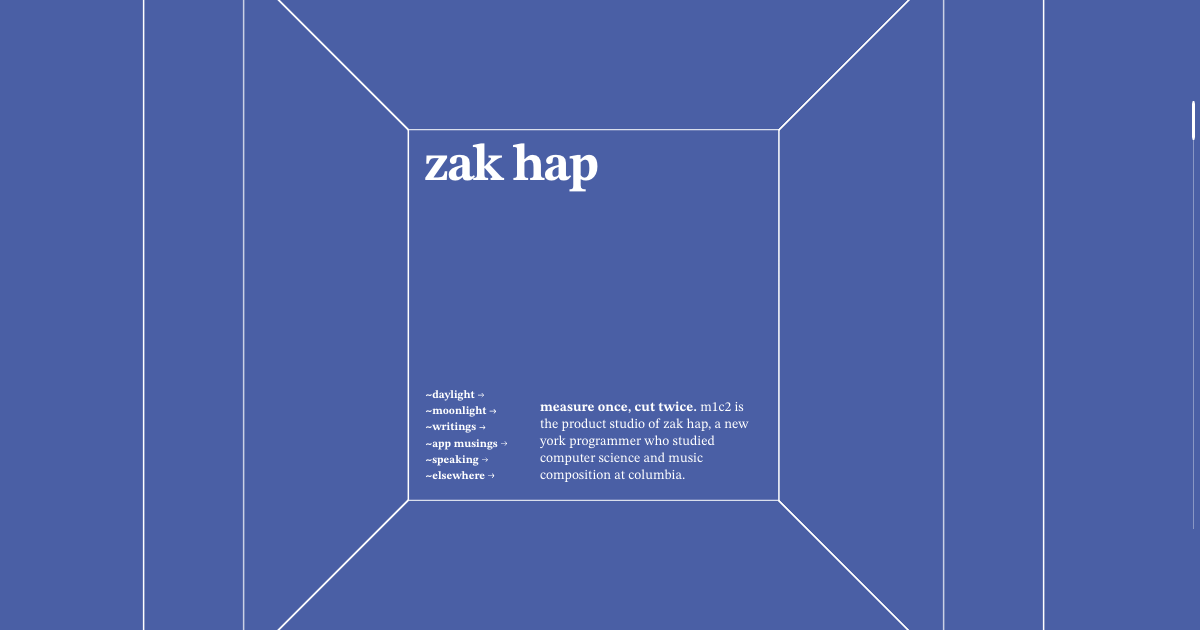
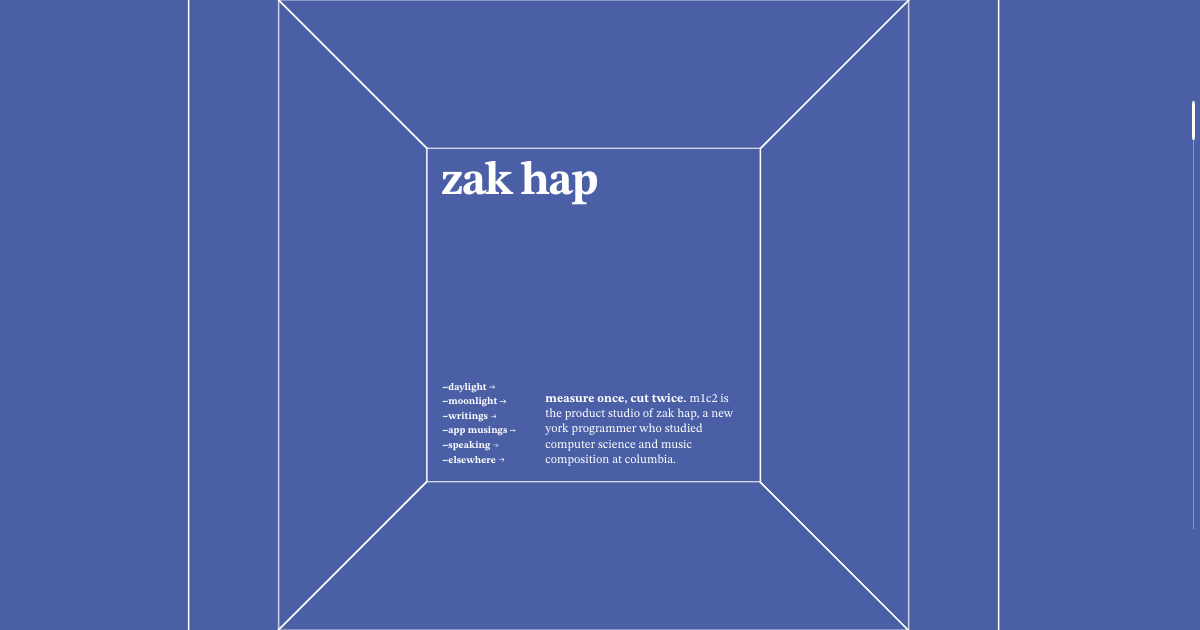
Zoom fix

Changed region(s): [[0.3392, 0.181, 0.6475, 0.8143], [0.2158, 0.9952, 0.7708, 1.0]]

diff --git a/css/engine.css b/css/engine.css
@@ -88,7 +88,7 @@
   --wdist: 2;      /* 4D eye distance along w */
   --cam: 1.6;      /* 3D eye, outside the tesseract (2.2 = whole outer cube in view, 0.55 = inside the inner room) */
   --near: 0.1;     /* near clip plane */
-  --focal: 100;    /* vmin; longer lens to match the pulled-back eye */
+  --focal: 90;     /* vmin; 85 shows the whole outer cube on a laptop, 100 crops it; 90 is the pick */
 
   /* ---- animation knobs ---- */
   --ease: 0.6;     /* 0 = turn tracks the scroll exactly; 1 = each turn eases in and out, so pages settle */

diff --git a/HANDOFF.md b/HANDOFF.md
@@ -14,6 +14,8 @@ viewport height turns the tesseract a quarter-turn through a 4D plane, carrying 
 page in on its own wall.
 
 **Hard constraint, by Zak's choice: HTML and CSS only. There is no JavaScript anywhere.**
+The one exception is the `<script type="application/ld+json">` block in each page's `<head>`: it is
+structured data for search engines, not code, and the browser never runs it. Keep it.
 The 4D rotation, both perspective projections, line clipping and the text warp are all done
 in `calc()` driven by one scroll-linked number. Do not add a script to fix something without
 asking; the "no JS" property is the point of the piece.
@@ -54,8 +56,9 @@ asking; the "no JS" property is the point of the piece.
 - Knobs at the top of `engine.css`: `--cam` (eye position; 2.2 = just outside the tesseract,
   0.55 = inside the inner room), `--focal` (lens), `--ease` (how much each turn eases),
   `--in-at/--in-len/--out-at/--out-len` (when pages fade during a turn).
-- Desktop `--cam` is 1.6 (was 2.2): the wall is ~484px tall on a 823px-high laptop, so 19px text renders ~15px.
-  The outer cube still frames it left and right; its top and bottom edges are off-screen.
+- Desktop is `--cam: 1.6; --focal: 90` (was 2.2 / 100), Zak's pick. On an 823px-high laptop the wall is
+  ~436px tall. 100 made the wall ~484px but cropped the outer cube; 85 showed all of it at ~412px.
+  Raise `--focal` for bigger text, lower it to show more of the tesseract.
 - Portrait screens override `--cam`/`--focal` to sit inside the room so the text wall fills ~85% of the width.
 - Landscape phones (`orientation: landscape` and `max-height: 500px`) also sit inside the room, with a lens
   that fills the height, and move the scroll cue beside the wall. `type.css` gives them the portrait type sizes.

diff --git a/CLAUDE.md b/CLAUDE.md
@@ -8,6 +8,7 @@ Static site for m1c2.xyz, the product studio of Zak Hap. The site is drawn as th
 tesseract: each page of content is a 600 × 600 px square of HTML pinned to a wall, and scrolling turns the
 tesseract through 4D to bring the next one in. **HTML and CSS only, no JavaScript** (a deliberate constraint;
 ask before adding a script).
+The `application/ld+json` blocks in each `<head>` are allowed: structured data for search, never executed.
 
 **Read `HANDOFF.md` before changing anything.** It covers how the engine works, the design decisions already
 made, known problems and the working method (check every pane for overflow at desktop and phone size).
